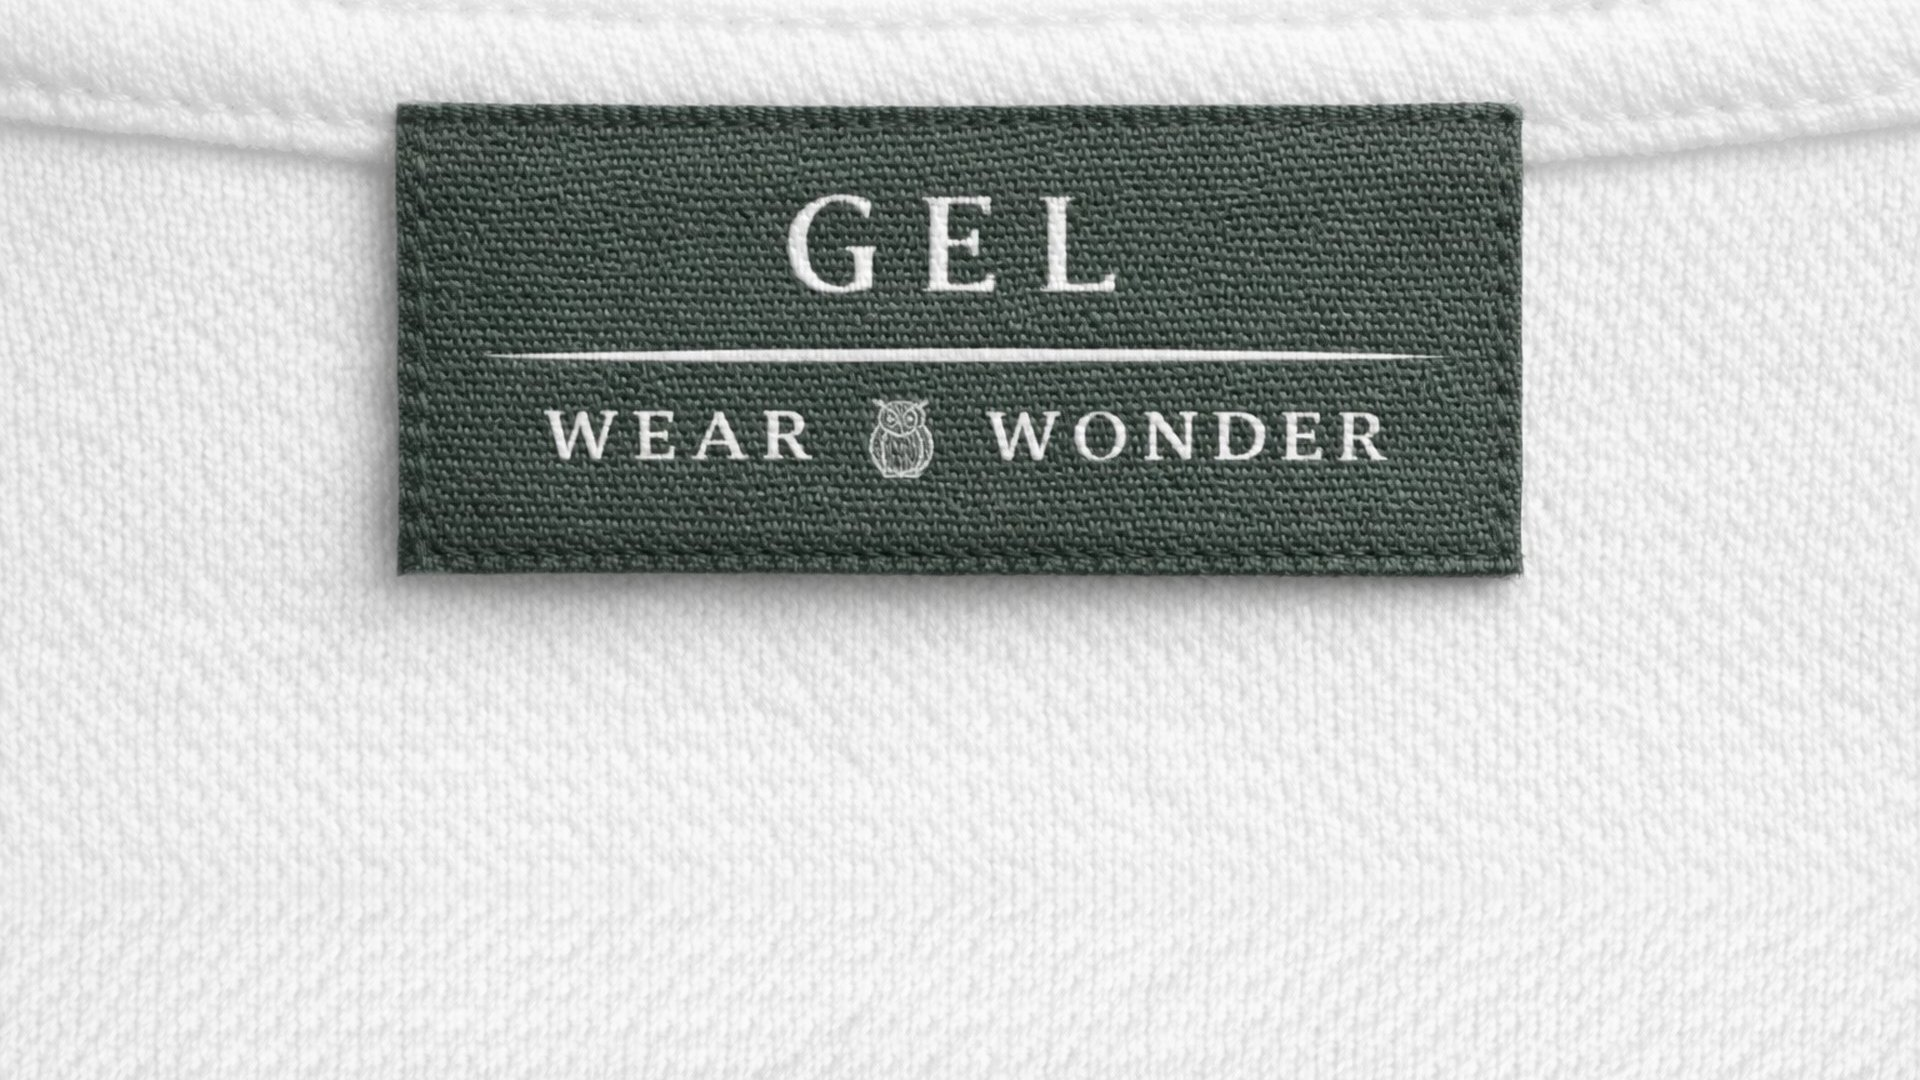
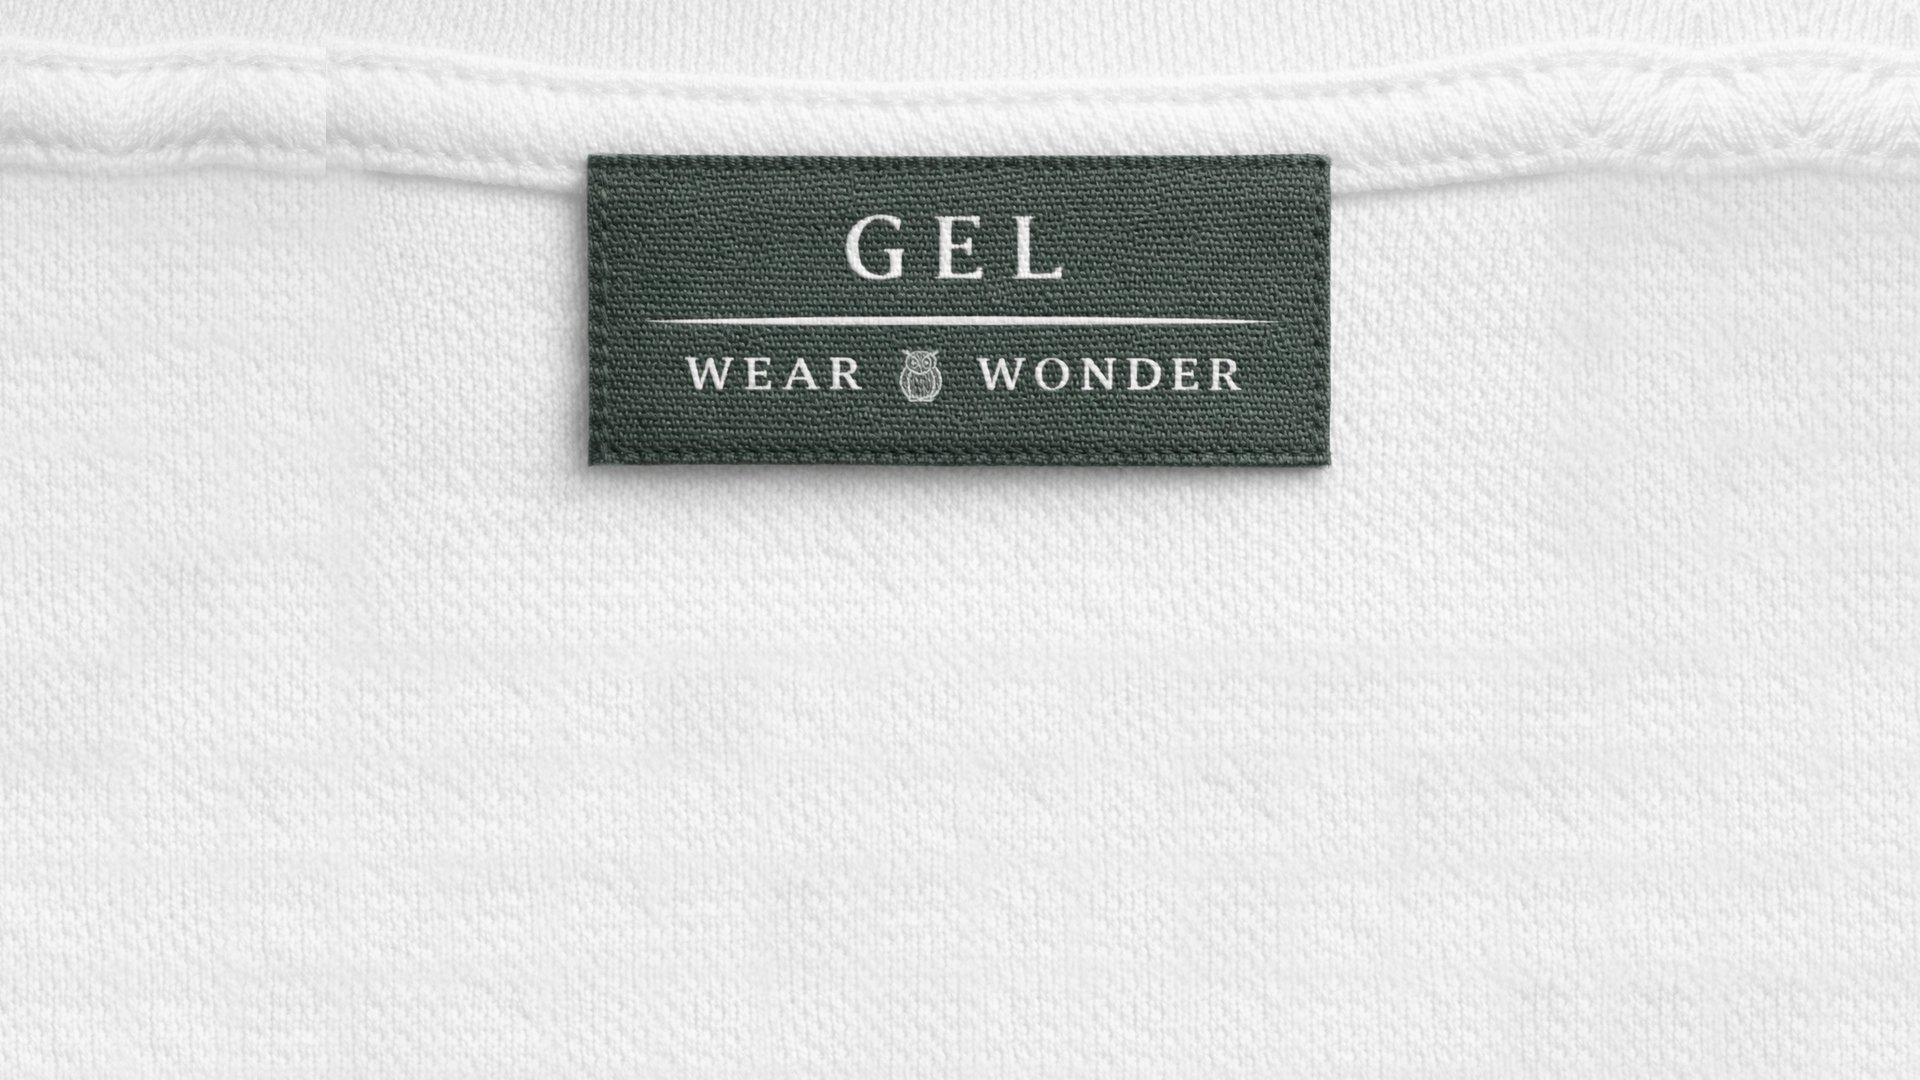
Keep hero label clear of the headline on wide and short screens
Smaller label placed higher, a portrait crop for phones, and hero text that
scales with viewport height.

Claude-Session: https://claude.ai/code/session_0121kJB4NpXDixzkqgvUVMNZ

Changed region(s): [[0.0, 0.0306, 1.0, 0.6111], [0.0, 0.1528, 0.0312, 0.1833]]

diff --git a/style.css b/style.css
@@ -1111,6 +1111,14 @@ html, body {
     transform: scale(1);
 }
 
+.hero-picture {
+    display: contents;
+}
+
+.hero-slide--label {
+    object-position: center top;
+}
+
 .hero-shade {
     position: absolute;
     inset: 0;
@@ -1120,7 +1128,7 @@ html, body {
 .hero-slider-content {
     position: absolute;
     inset-inline: 0;
-    bottom: 96px;
+    bottom: clamp(56px, 10vh, 96px);
     max-width: 640px;
     margin: 0 auto;
     padding: 0 24px;
@@ -1131,7 +1139,7 @@ html, body {
 }
 
 .hero-slider-content h1 {
-    font-size: clamp(44px, 7vw, 88px);
+    font-size: clamp(40px, min(7vw, 9vh), 88px);
     font-weight: 800;
     line-height: 1;
     letter-spacing: 2px;
@@ -1143,7 +1151,7 @@ html, body {
     font-size: clamp(15px, 1.4vw, 18px);
     line-height: 1.8;
     color: rgba(255, 255, 255, 0.88);
-    margin-bottom: 32px;
+    margin-bottom: clamp(18px, 3.5vh, 32px);
 }
 
 .hero-slider-btn {

diff --git a/index.html b/index.html
@@ -63,7 +63,10 @@
 <!-- Hero: full-width photos that change every few seconds -->
     <section class="hero-slider" aria-label="GEL">
         <div class="hero-slides">
-            <img class="hero-slide is-active" src="IMG/hero-label.jpg" alt="">
+            <picture class="hero-picture">
+                <source media="(max-width: 700px)" srcset="IMG/hero-label-m.jpg">
+                <img class="hero-slide hero-slide--label is-active" src="IMG/hero-label.jpg" alt="">
+            </picture>
             <img class="hero-slide" src="IMG/hero-tee.jpg" alt="">
             <img class="hero-slide" src="IMG/hero-hoodie.jpg" alt="">
         </div>
